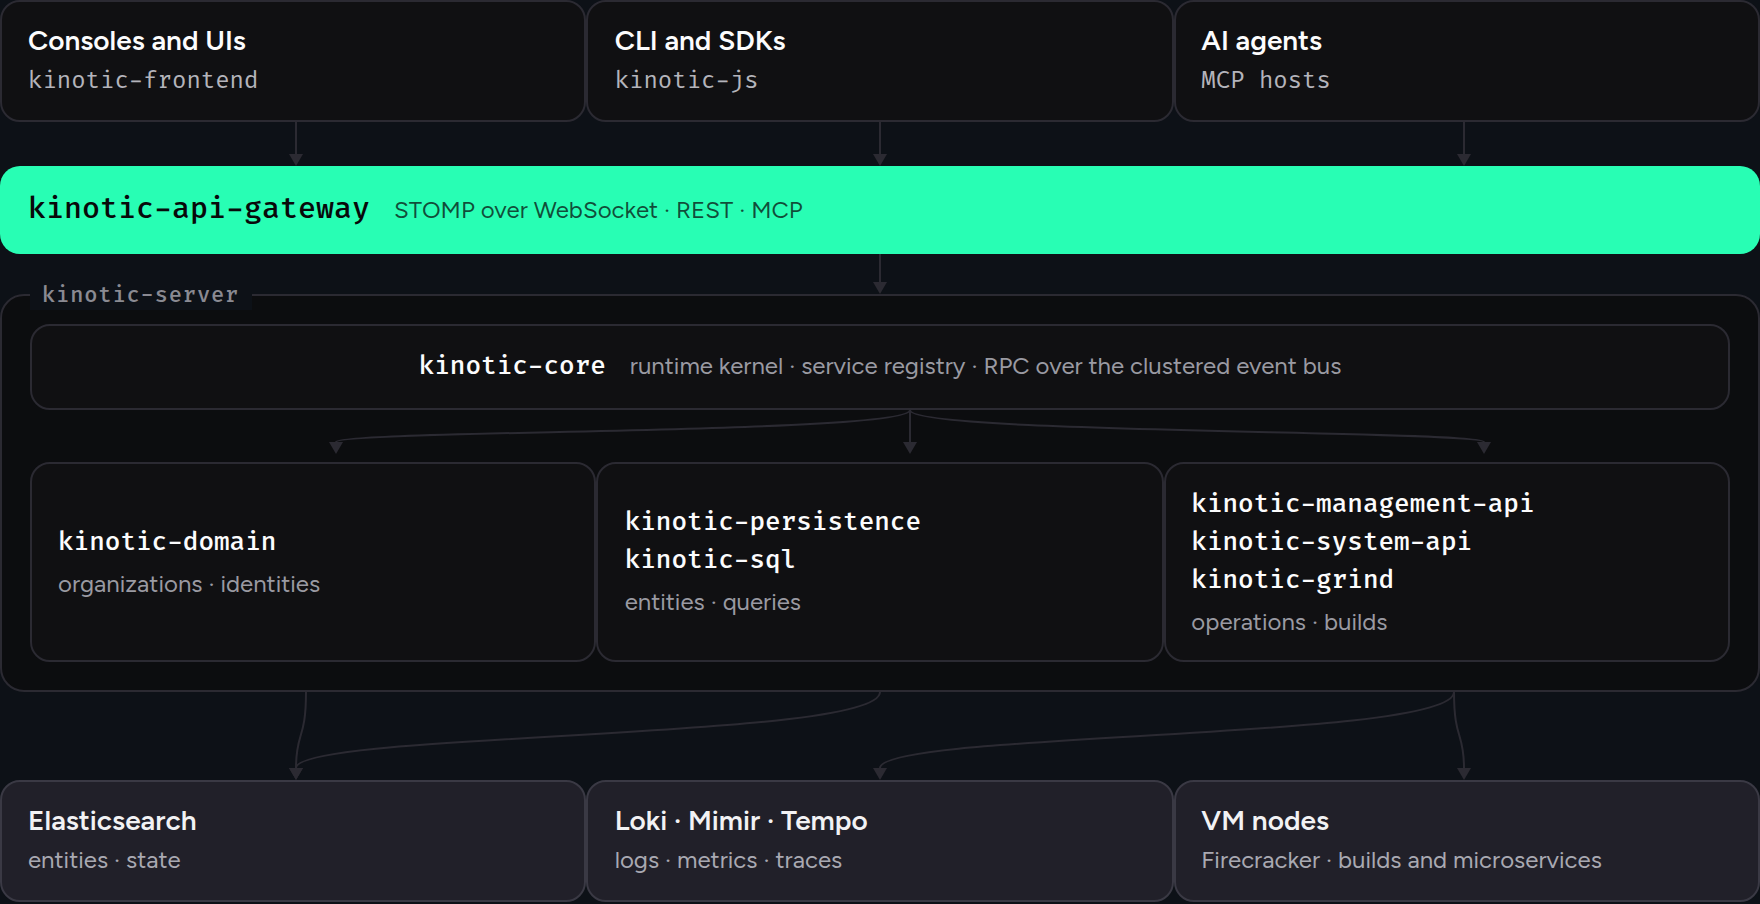
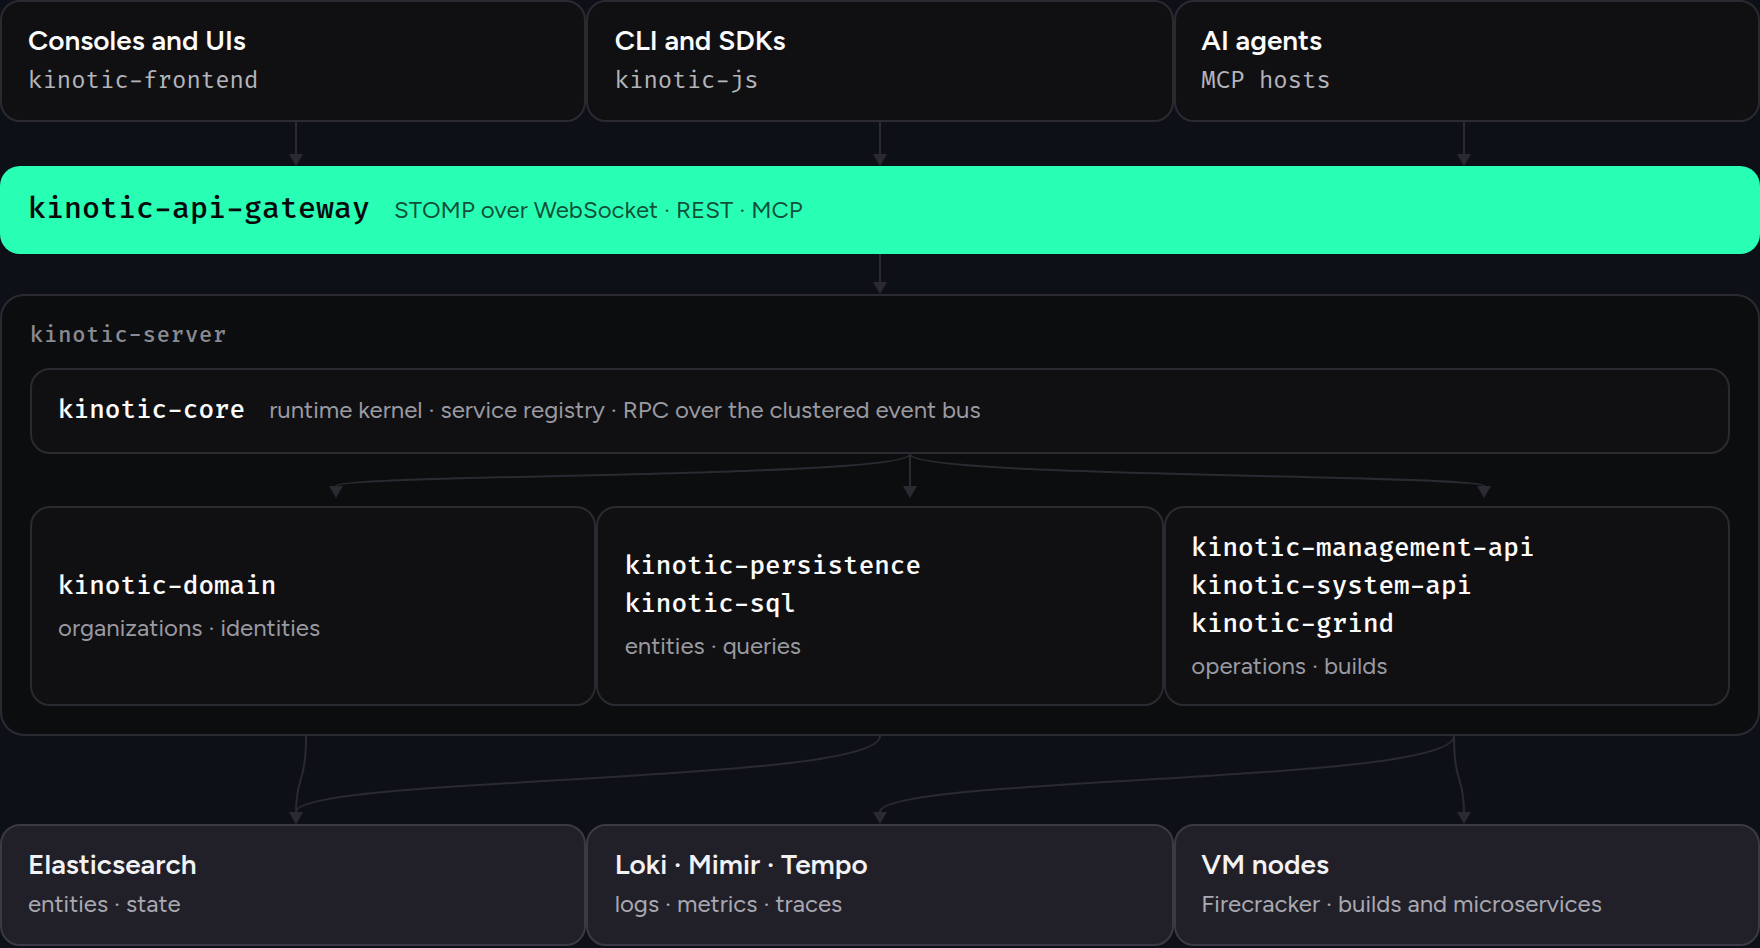
The kinotic-server label sits inside its panel
As a legend on the border it crossed two fills — the panel's #F6F8FA and the
page's white — so it read as a white patch with the border stubbed out either
side of it rather than as a gap. It is a caption inside the panel now, and the
border runs unbroken.

The wide variant's core bar was centred while every tile around it was ranged
left; `.tile-core-row` was inheriting `justify-content: center` from `.tile`.

Both diagrams grow by the height the label now occupies: 739 to 761 narrow,
470 to 474 wide. The wide entry in SPECS had drifted to 452 against a 470 in the
markup, so it was clipping four pixels of padding; both now say 474.

Claude-Session: https://claude.ai/code/session_01EvoZVi9sNowJbKd7zzzNvL

diff --git a/.github/assets/diagrams/diagrams.py b/.github/assets/diagrams/diagrams.py
@@ -165,7 +165,7 @@ def architecture(t):
              f'preserveAspectRatio="none" aria-hidden="true">'
              f'<path d="M 11 0 L 11 236" stroke="{t["line"]}" stroke-width="1" fill="none"/>'
              f'</svg>')
-    return (f'<div class="d" style="width:440px;height:739px">'
+    return (f'<div class="d" style="width:440px;height:761px">'
             f'<div class="row3 g10">{client_tiles}</div>'
             f'{drops([72, 220, 368], 20)}'
             f'<div class="gw"><span class="mono mono-gw">kinotic-api-gateway</span>'
@@ -303,7 +303,7 @@ def w_architecture(t):
         return f'<svg width="{w}" height="{h}" viewBox="0 0 {w} {h}" aria-hidden="true">{p}</svg>'
 
     # module tiles are 274 wide inside a panel padded 16 → centres 153, 440, 727
-    return (f'<div class="d" style="width:{W}px;height:470px">'
+    return (f'<div class="d" style="width:{W}px;height:474px">'
             f'<div class="row3 g16">{client_tiles}</div>'
             f'{drops([148, 440, 732], 22)}'
             f'<div class="gw gw-row"><span class="mono mono-gw">kinotic-api-gateway</span>'
@@ -396,9 +396,9 @@ display:flex;flex-direction:column;gap:3px;justify-content:center}}
 {p} .gw{{background:{t['mint']};border-radius:10px;padding:11px 14px;display:flex;
 flex-direction:column;gap:2px}}
 {p} .gw-s{{font:400 12px 'Figtree',sans-serif;color:rgba(8,9,10,.72)}}
-{p} .server{{border:1px solid {t['line']};border-radius:12px;padding:14px;position:relative;
+{p} .server{{border:1px solid {t['line']};border-radius:12px;padding:12px 14px 14px;
 background:{t['panel']}}}
-{p} .server-tab{{position:absolute;top:-8px;left:14px;background:{t['ground']};padding:0 6px;
+{p} .server-tab{{display:block;margin-bottom:9px;
 font:500 11px 'Fira Code',monospace;letter-spacing:.04em;color:{t['dim']}}}
 {p} .lanes{{display:grid;grid-template-columns:repeat(2,minmax(0,1fr));gap:24px}}
 {p} .lane{{display:flex;flex-direction:column;gap:10px}}
@@ -418,7 +418,7 @@ border-radius:8px;padding:8px 12px;background:{t['chip']};width:100%;text-align:
 {p} .branch-row{{flex-direction:row;align-items:center;gap:10px;margin-left:4px;margin-bottom:-10px}}
 {p} .pill-row{{flex-direction:row;align-items:baseline;gap:9px;border-radius:999px}}
 {p} .gw-row{{flex-direction:row;align-items:baseline;gap:12px}}
-{p} .tile-core-row{{flex-direction:row;align-items:baseline;gap:12px}}
+{p} .tile-core-row{{flex-direction:row;align-items:baseline;justify-content:flex-start;gap:12px}}
 {p} .lanes-row{{display:flex;flex-direction:column;gap:18px}}
 {p} .lane-row{{flex-direction:row;align-items:center;gap:14px}}
 {p} .lane-l-row{{width:104px;flex:none;text-align:right}}
@@ -436,7 +436,7 @@ SPECS = [
     ('environments', 'CI/CD environments',
      (environments, 300, 280), (w_environments, 620, 237)),
     ('architecture', 'Architecture',
-     (architecture, 440, 739), (w_architecture, 880, 452)),
+     (architecture, 440, 761), (w_architecture, 880, 474)),
     ('vision', 'The vision',
      (vision, 440, 274), (w_vision, 660, 84)),
 ]
